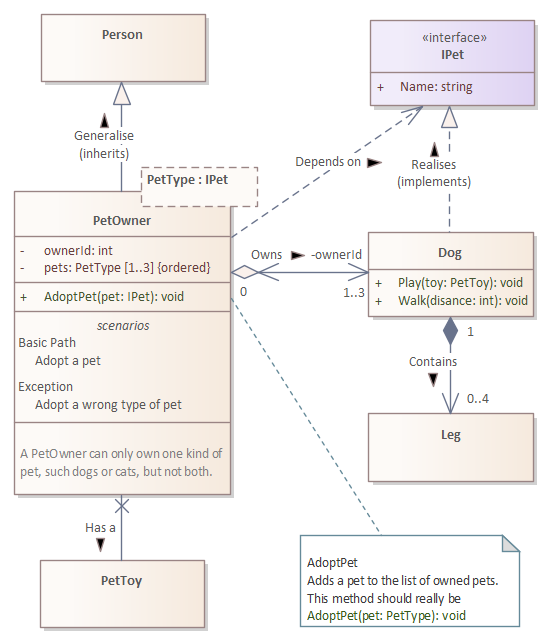
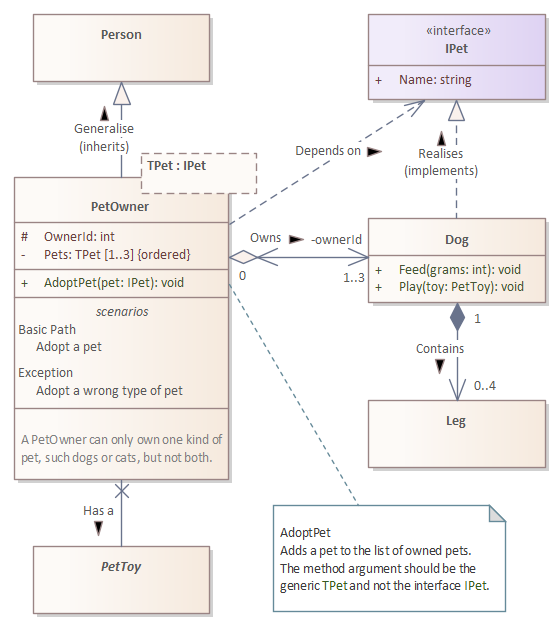
Add class diagram class details

diff --git a/class-diagrams/class-diagrams.md b/class-diagrams/class-diagrams.md
@@ -4,8 +4,155 @@ Class Diagrams
 <!-- @import "[TOC]" {cmd="toc" depthFrom=1 depthTo=6 orderedList=false} -->
 <!-- code_chunk_output -->
 
-
+- [Class diagram](#class-diagram)
+- [Classes](#classes)
+- [Relationships](#relationships)
+- [Code](#code)
+- [Summary](#summary)
 
 <!-- /code_chunk_output -->
 
+This example class diagram shows people and their pets; specifically it shows a `PetOwner` class and it's relationship to a `Dog` class. 
+
+> __Memory tip__
+> This example class diagram contains almost everything needed to know about class diagrams.
+
+# Class diagram
+
 ![Class diagram](class-diagram.png)
+
+# Classes
+
+<table>
+<tr><th width="35%">Description</th><th  width="25%">Element</th><th width="35%">Code</th></tr>
+<tr>
+<td>
+
+A class is represented as box, such as this `Person` class.
+
+</td>
+<td><img src="class.png" alt="Class"></td>
+<td>
+
+```csharp
+public class Person {
+}
+```
+
+</td>
+</tr>
+<tr>
+<td>
+
+The box can have compartments showing additional details about the class, such as these method signatures on the `Dog` class.
+
+The `+` plus symbol indicates that these methods are `public`.
+
+</td>
+<td><img src="public-methods.png" alt="Public methods"></td>
+<td>
+
+```csharp
+public class Dog : IPet {
+  // ...
+  
+  // Methods
+  public void Feed(int grams) { }
+  public void Play(PetToy toy) { }
+}
+```
+
+</td>
+</tr>
+<tr>
+<td>
+
+An interface is drawn in the same way, but with the stereotype `interface` added to it. Stereotypes explicitly define what the element represents.
+
+</td>
+<td><img src="interface.png" alt="Interface"></td>
+<td>
+
+```csharp
+public interface IPet {
+  public string Name {get; set;}
+}
+```
+
+</td>
+</tr>
+<tr>
+<td>
+
+An abstract class is shown in _italics_, and so are any abstract methods.
+
+</td>
+<td><img src="abstract-class.png" alt="Abstract class"></td>
+<td>
+
+```csharp
+public abstract class PetToy {
+}
+```
+
+</td>
+</tr>
+<tr>
+<td>
+
+The box can have multiple compartments, each showing different types of details. For example the `PetOwner` class shows properties, methods, a usage scenario and notes.
+
+The symbols:
+- `#` hash indicates that the property is `protected`
+- `-` minus indicates that the property is `private`
+- `+` plus indicates that the method is `public`.
+
+</td>
+<td><img src="class-compartments.png" alt="Class compartments"></td>
+<td>
+
+```csharp
+public class PetOwner {
+  // Properties
+  protected int OwnerId { get; }
+  private IList<PetType> Pets { get; }
+
+  // Methods
+  public void AdoptPet(IPet pet) {
+    Pets.Add(pet);
+  }
+}
+```
+
+The implementation of `Pets` as an `IList` is not defined in the UML, instead it was a development choice. The code for this class is not yet complete.
+
+</td>
+</tr>
+<tr>
+<td>
+
+By adding the generic template parameter of `TPet` to `PetOwner`, a pet owner can be limited to own only one specific type of pet.
+
+Generics are shown in an attached dashed box at the top of the class.
+
+</td>
+<td><img src="generic-class.png" alt="Generic class"></td>
+<td>
+
+```csharp
+private static class FooHelper<TPet> where TPet : IPet {
+  // ... 
+}
+```
+
+</td>
+</tr>
+</table>
+
+# Relationships
+
+# Code
+> __Beware__
+> This code is not very good, but the succinct class diagram is very useful for understanding UML.
+
+# Summary

diff --git a/README.md b/README.md
@@ -1,10 +1,11 @@
-Practical UML
+Understanding UML
 =
 
 <!-- @import "[TOC]" {cmd="toc" depthFrom=1 depthTo=6 orderedList=false} -->
 <!-- code_chunk_output -->
 
 - [Structural diagrams](#structural-diagrams)
+- [Behavioural diagrams](#behavioural-diagrams)
 
 <!-- /code_chunk_output -->
 
